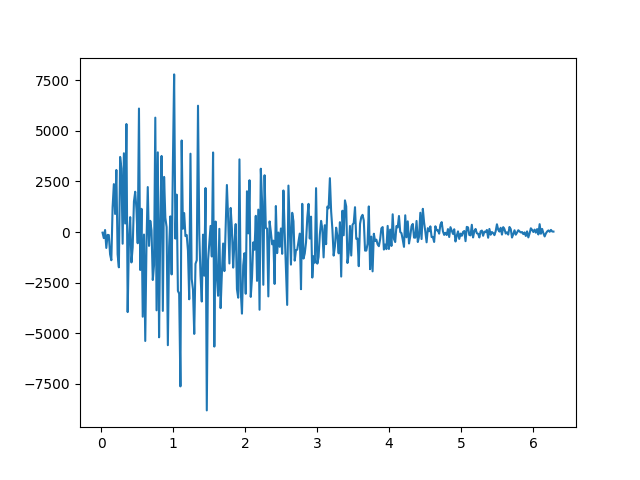
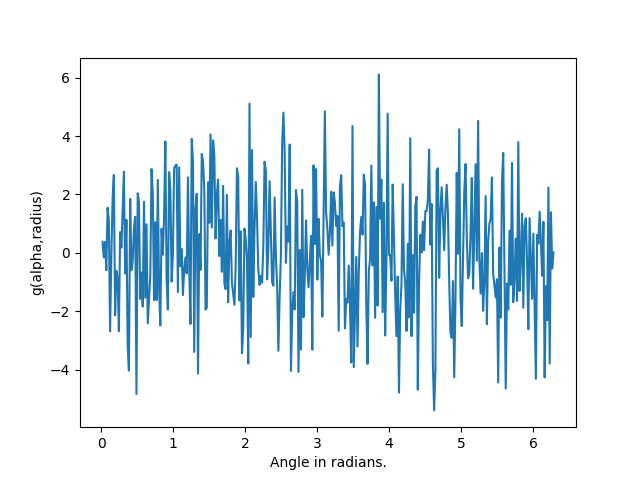
image plot, wrapped sinusoid

diff --git a/scripts/python/image_io.py b/scripts/python/image_io.py
@@ -6,14 +6,14 @@ from PIL import Image
 
 
 def write_data():
-    image_path_png = "../../Images/circular_symmetric.png"
+    image_path_png = "../../Images/wrapped_sinusoid.png"
     original_png_data = Image.open(image_path_png).convert('L')
     numpy_data = np.asarray(original_png_data)
     numpy_data = numpy_data.astype(np.float32)
     numpy_data = np.reshape(numpy_data, (numpy_data.shape[0] * numpy_data.shape[1],))
     print(numpy_data.shape)
     print(numpy_data)
-    numpy_data.tofile("../../Images/circular_symmetric.raw")
+    numpy_data.tofile("../../Images/wrapped_sinusoid.raw")
 
 
 def read_data(image_path):
@@ -67,18 +67,21 @@ def read_data_no_loss(image_path, image_info):
 
 def read_data_no_loss(image_path, image_info, image_n):
 
-    padding = 50
-
-    original_image_info = image_info.replace(image_n, '0')
-    original_image_f = open(original_image_info)
-    original_line = original_image_f.readlines()
-    original_line = original_line[0].split(',')
-    original_nx = int(original_line[0])
-    original_ny = int(original_line[1])
+    max_padding = 50
+    step = max_padding / 45
 
 
-    max_x = original_nx + padding
-    max_y = original_ny + padding
+    # Original nx, and ny
+    max_image_info = image_info.replace(image_n, '45')
+    max_image_f = open(max_image_info)
+    max_line = max_image_f.readlines()
+    max_line = max_line[0].split(',')
+    max_nx = int(max_line[0])
+    max_ny = int(max_line[1])
+
+
+    # max_x = original_nx + padding
+    # max_y = original_ny + padding
 
 
     f = open(image_info)
@@ -87,8 +90,11 @@ def read_data_no_loss(image_path, image_info, image_n):
     nx = int(line[0])
     ny = int(line[1])
 
-    inst_padding_x = max_x - nx
-    inst_padding_y = max_y - ny
+    padding = int((max_nx - nx)/2) 
+
+
+    # inst_padding_x = max_x - nx
+    # inst_padding_y = max_y - ny
 
     n = nx * ny
 
@@ -113,14 +119,13 @@ def read_data_no_loss(image_path, image_info, image_n):
     # Visualize the data as an image
     plt.imshow(data, cmap='gray')
     # plt.show()
-    plt.savefig("output_images/image_" + image_n)
+    plt.savefig("output_images/image_" + image_n, dpi=300)
 
 
 
 if __name__ == "__main__":
     # write_data()
     # # # main()
-
 
 
     if len(sys.argv) == 3:

diff --git a/scripts/python/plot_image.py b/scripts/python/plot_image.py
@@ -3,21 +3,22 @@ import matplotlib.pyplot as plt
 import numpy as np
 from PIL import Image
 
+# Define image dimensions
+width = 512
+height = 512
+
 A = 1.0
 B = 1.0
 C = 0.5
-n = 50
+n = 10
 
-# Define image dimensions
-width = 1000
-height = 1000
 
 def alpha_0(r):
-    return 2 * np.pi * np.sin(C * r)
+    return (2 * np.pi * np.sin(C * r)) - np.pi
 
 # Define function to be plotted
 def g(alpha, r):
-    return A * np.exp(-(r * alpha - alpha_0(r)) / r) * np.cos(B * r**(3/2)) * r
+    return A * np.exp(-((alpha - alpha_0(r))**2) / r) * np.cos(B * (r**(3/2)))
 
 def generate_graph():
 	r = np.linspace(1,360,num=360, dtype=int)
@@ -25,6 +26,9 @@ def generate_graph():
 	z = np.zeros_like(alpha)
 	for i in range(n):
 	    z += g(alpha, r * (i+1))
+
+	plt.xlabel("Angle in radians.")
+	plt.ylabel("g(alpha,radius)")
 	plt.plot(alpha,z)
 	plt.savefig("../../Images/graph_sinusoid.png")
 
@@ -33,13 +37,13 @@ def generate_graph():
 def generate_image():
 
 	# Generate image data
-	x, y = np.meshgrid(np.linspace(-1, 1, width), np.linspace(-1, 1, height))
+	x, y = np.meshgrid(np.linspace(-np.pi, np.pi, width), np.linspace(-np.pi, np.pi, height))
 	r = np.sqrt(x**2 + y**2)
 	theta = np.angle(x + y*1j)
 	z = np.zeros_like(r)
 
-	for i in range(n):
-	    z += g(theta, r * (i + 1))
+	for i in range(1,n):
+	    z += g(theta, r * i )
 
 	# # Normalize and convert to grayscale
 	z = (z - np.min(z)) / (np.max(z) - np.min(z))

diff --git a/RotateSerial/drivers/rotate_noloss.c b/RotateSerial/drivers/rotate_noloss.c
@@ -5,11 +5,11 @@
 #include <stdlib.h>
 
 int main(int argc, char *argv[]) {
-  const char *iDataPath = "../Images/circular_symmetric.raw";
+  const char *iDataPath = "../Images/wrapped_sinusoid.raw";
   // const char *iDataPath = "../Images/data_roberts.raw";
   // const char *pathname = "../../Images/data_rectangle.raw";
-  int width = 300;
-  int height = 300;
+  int width = 512;
+  int height = 512;
   int iAngle = -145;
   char *oDataInfo;
   char *oDataPath;
